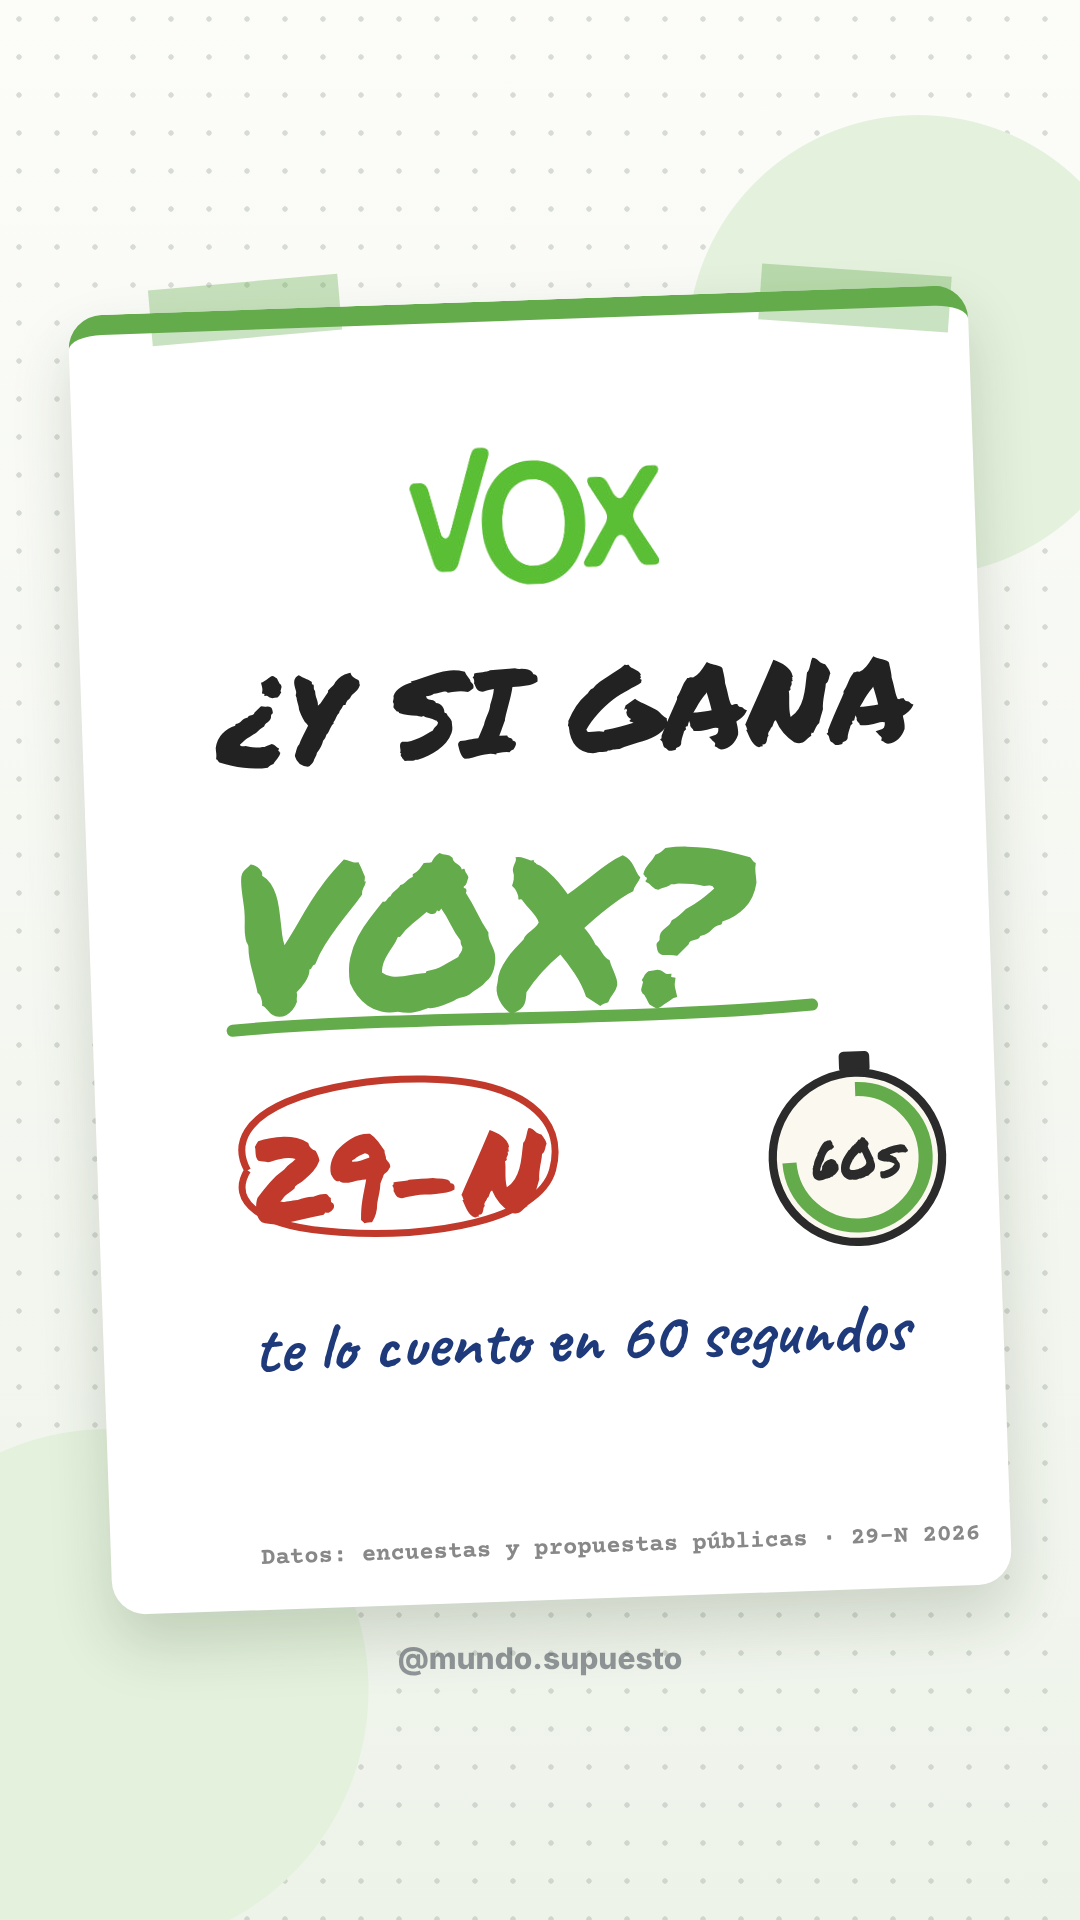
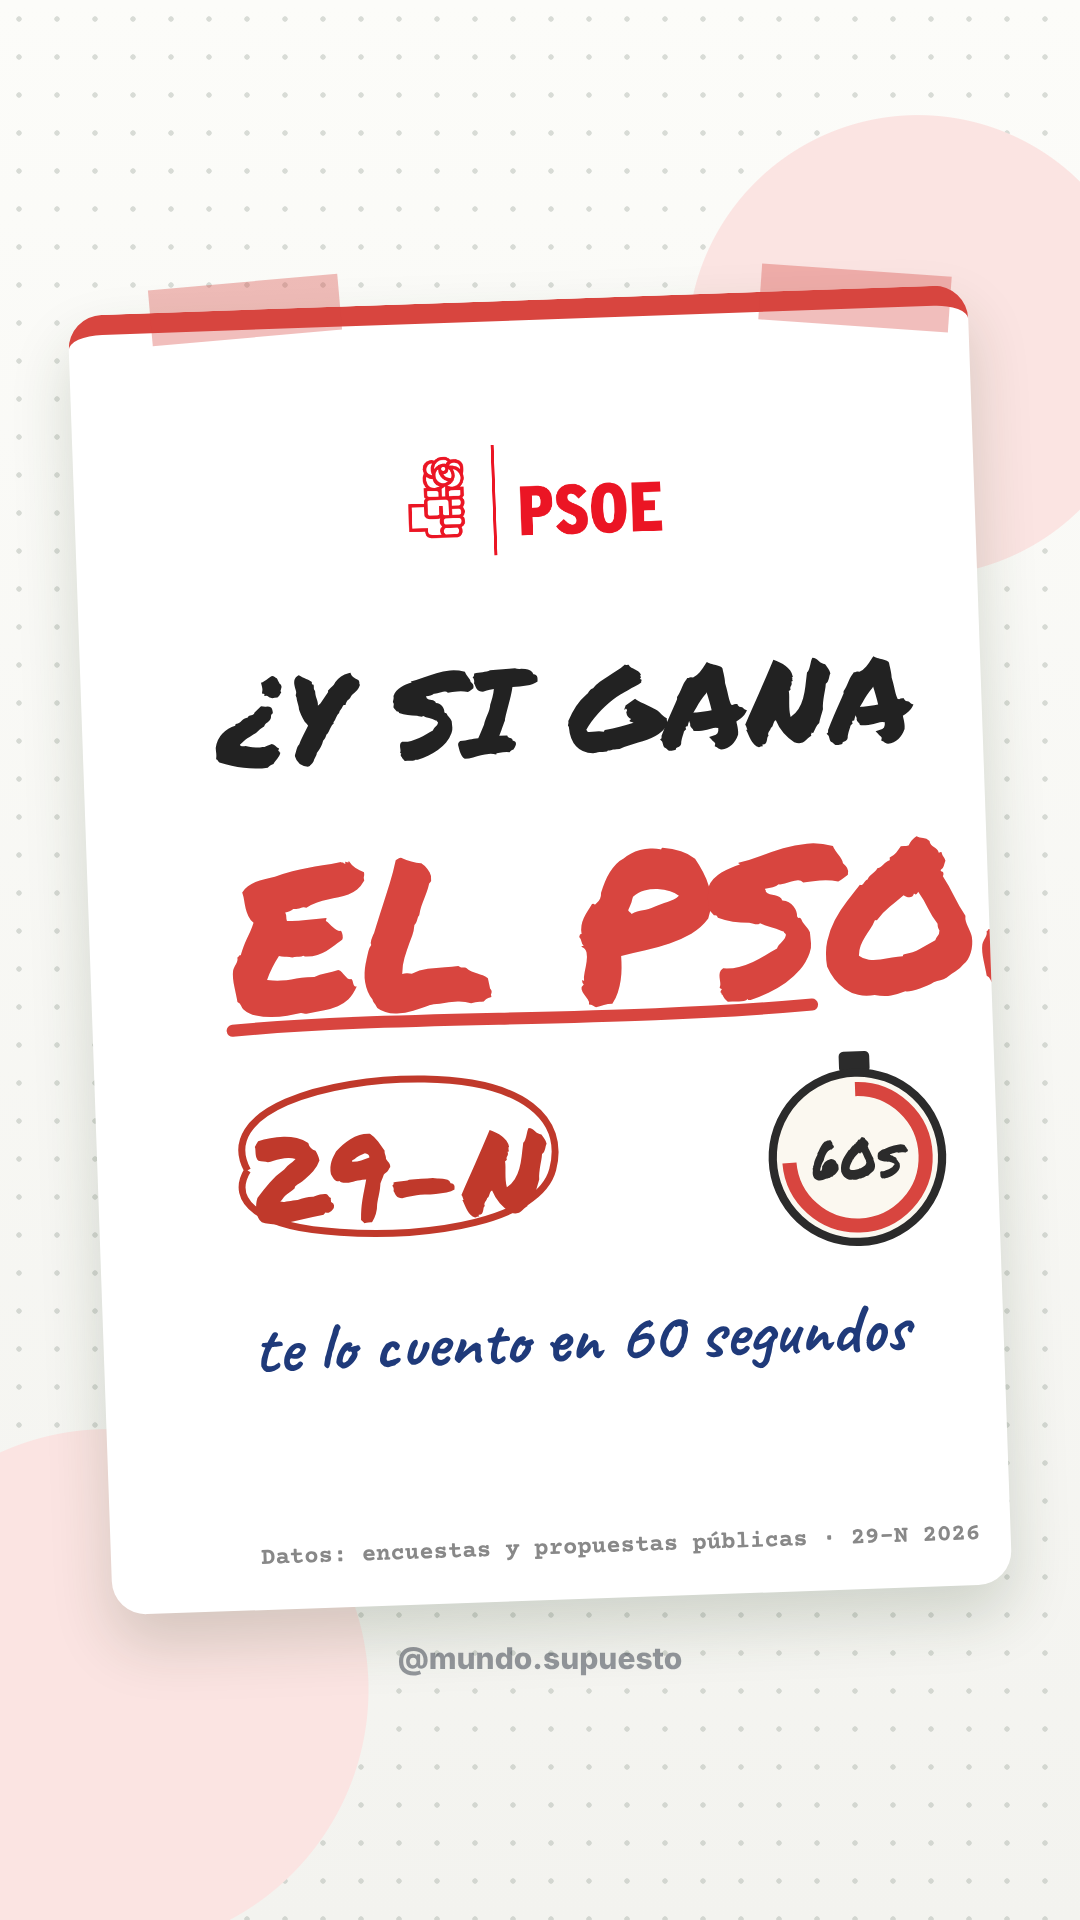
PSOE 29N: archivos de trabajo
Claude-Session: https://claude.ai/code/session_01FgZK39uRFBPnhEWyncataL

diff --git a/quiz-video/animado/psoe29n/miniatura/_mini.html b/quiz-video/animado/psoe29n/miniatura/_mini.html
@@ -1,0 +1,34 @@
+<!doctype html><html><head><meta charset="utf-8"><style>
+  @font-face{font-family:Caveat;src:url('file:///home/user/webs/quiz-video/animado/psoe29n/assets/fonts/Caveat-700-latin.woff2');font-weight:700}
+  @font-face{font-family:Marker;src:url('file:///home/user/webs/quiz-video/animado/psoe29n/assets/fonts/permanent-marker-400.woff2')}
+  @font-face{font-family:Courier;src:url('file:///home/user/webs/quiz-video/animado/psoe29n/assets/fonts/courier-prime-700.woff2');font-weight:700}
+  *{margin:0;padding:0;box-sizing:border-box} body{width:1080px;height:1920px;overflow:hidden;background:#f6f7f2}
+  #mesa{position:absolute;inset:0;background:radial-gradient(circle at 85% 18%, #fbe4e2 0 230px, transparent 231px), radial-gradient(circle at 10% 88%, #fbe4e2 0 260px, transparent 261px), radial-gradient(circle, rgba(150,160,150,0.35) 2.4px, transparent 3px) 0 0/38px 38px, linear-gradient(#fcfcf9,#f3f3ef)}
+  #hoja{position:absolute;left:90px;top:300px;width:900px;height:1300px;transform:rotate(-2deg);border-radius:34px;box-shadow:0 30px 60px rgba(40,60,30,0.18);background:#ffffff;overflow:hidden;border-top:20px solid #d8453f}
+  .cinta{position:absolute;width:190px;height:56px;background:#d8453f;opacity:0.35}
+  #esp{position:absolute;left:110px;top:262px;transform:rotate(-2deg)}
+  #logo{position:absolute;left:330px;top:120px;width:260px}
+  .m{position:absolute;font-family:Marker;white-space:nowrap}
+  #l1{left:140px;top:300px;font-size:120px;color:#222}
+  #l2{left:140px;top:450px;font-size:210px;color:#d8453f}
+  #sub{position:absolute;left:150px;top:975px;font:700 70px Caveat;color:#1f3a7a;white-space:nowrap}
+  #fecha{left:150px;top:760px;font-size:120px;color:#c0392b}
+  #crono{position:absolute;right:40px;top:740px}
+  #fuente{position:absolute;left:150px;top:1215px;font:700 24px Courier;color:#888}
+  #marca{position:absolute;left:0;right:0;top:1640px;text-align:center;font:800 30px Inter;color:#1d2433;opacity:0.45}
+  </style></head><body><div id="mesa"></div>
+  <div id="hoja">
+    <img id="logo" src="file:///home/user/webs/quiz-video/animado/psoe29n/assets/logo_partido.png">
+    <div class="m" id="l1">¿Y SI GANA</div><div class="m" id="l2">EL PSOE?</div>
+    <svg width="900" height="1300" style="position:absolute;left:0;top:0">
+      <path d="M140,700 C300,690 520,705 720,694" stroke="#d8453f" stroke-width="12" fill="none" stroke-linecap="round"/>
+      <path d="M150,840 C120,780 230,750 330,755 C430,760 470,800 455,850 C440,900 330,915 240,905 C160,898 130,870 150,840" stroke="#c0392b" stroke-width="7" fill="none"/>
+    </svg>
+    <div class="m" id="fecha">29-N</div>
+    <div id="sub">te lo cuento en 60 segundos</div>
+    <svg id="crono" width="200" height="200" viewBox="0 0 170 170"><rect x="72" y="2" width="26" height="18" rx="4" fill="#2b2b2b"/><circle cx="85" cy="92" r="72" fill="#fbf8f0" stroke="#2b2b2b" stroke-width="7"/>
+      <circle cx="85" cy="92" r="58" fill="none" stroke="#d8453f" stroke-width="12" stroke-dasharray="270 400" transform="rotate(-90 85 92)"/><text x="85" y="110" text-anchor="middle" font-family="Marker" font-size="46" fill="#2b2b2b">60s</text></svg>
+    <div id="fuente">Datos: encuestas y propuestas públicas · 29-N 2026</div>
+  </div>
+  <div class="cinta" style="left:150px;top:282px;transform:rotate(-5deg)"></div><div class="cinta" style="left:760px;top:270px;transform:rotate(4deg)"></div>
+  <div id="marca">@mundo.supuesto</div></body></html>
